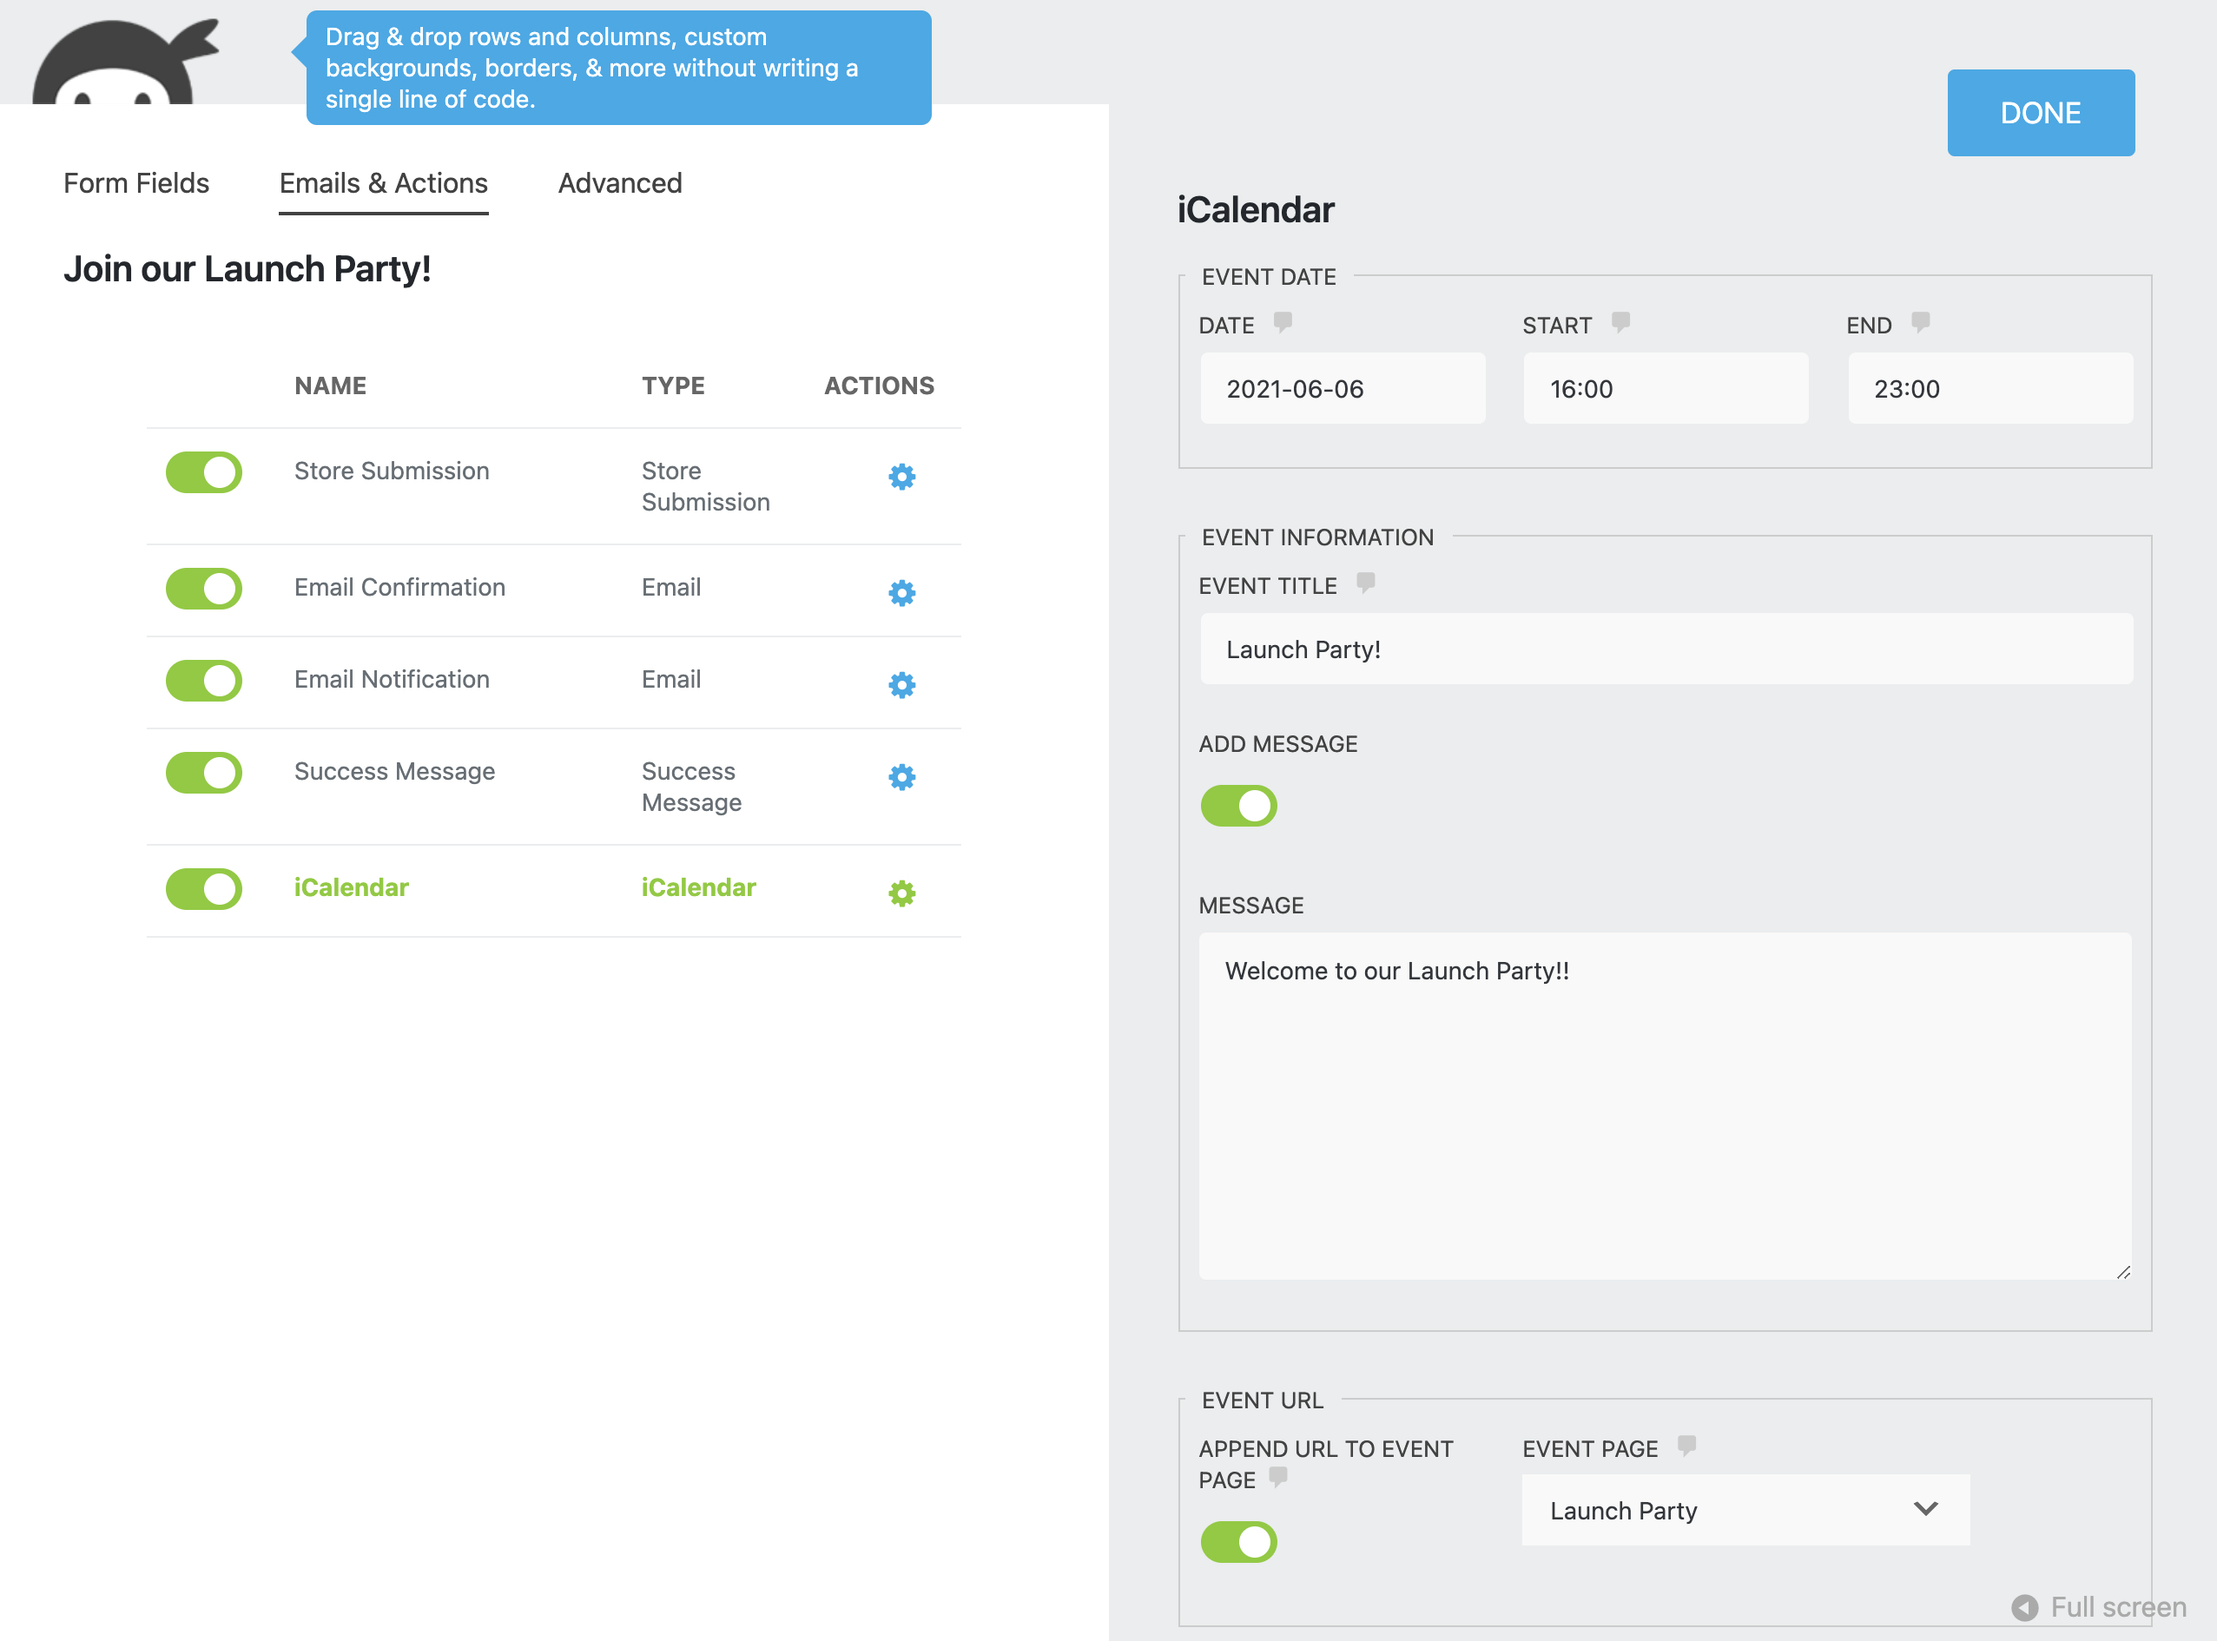
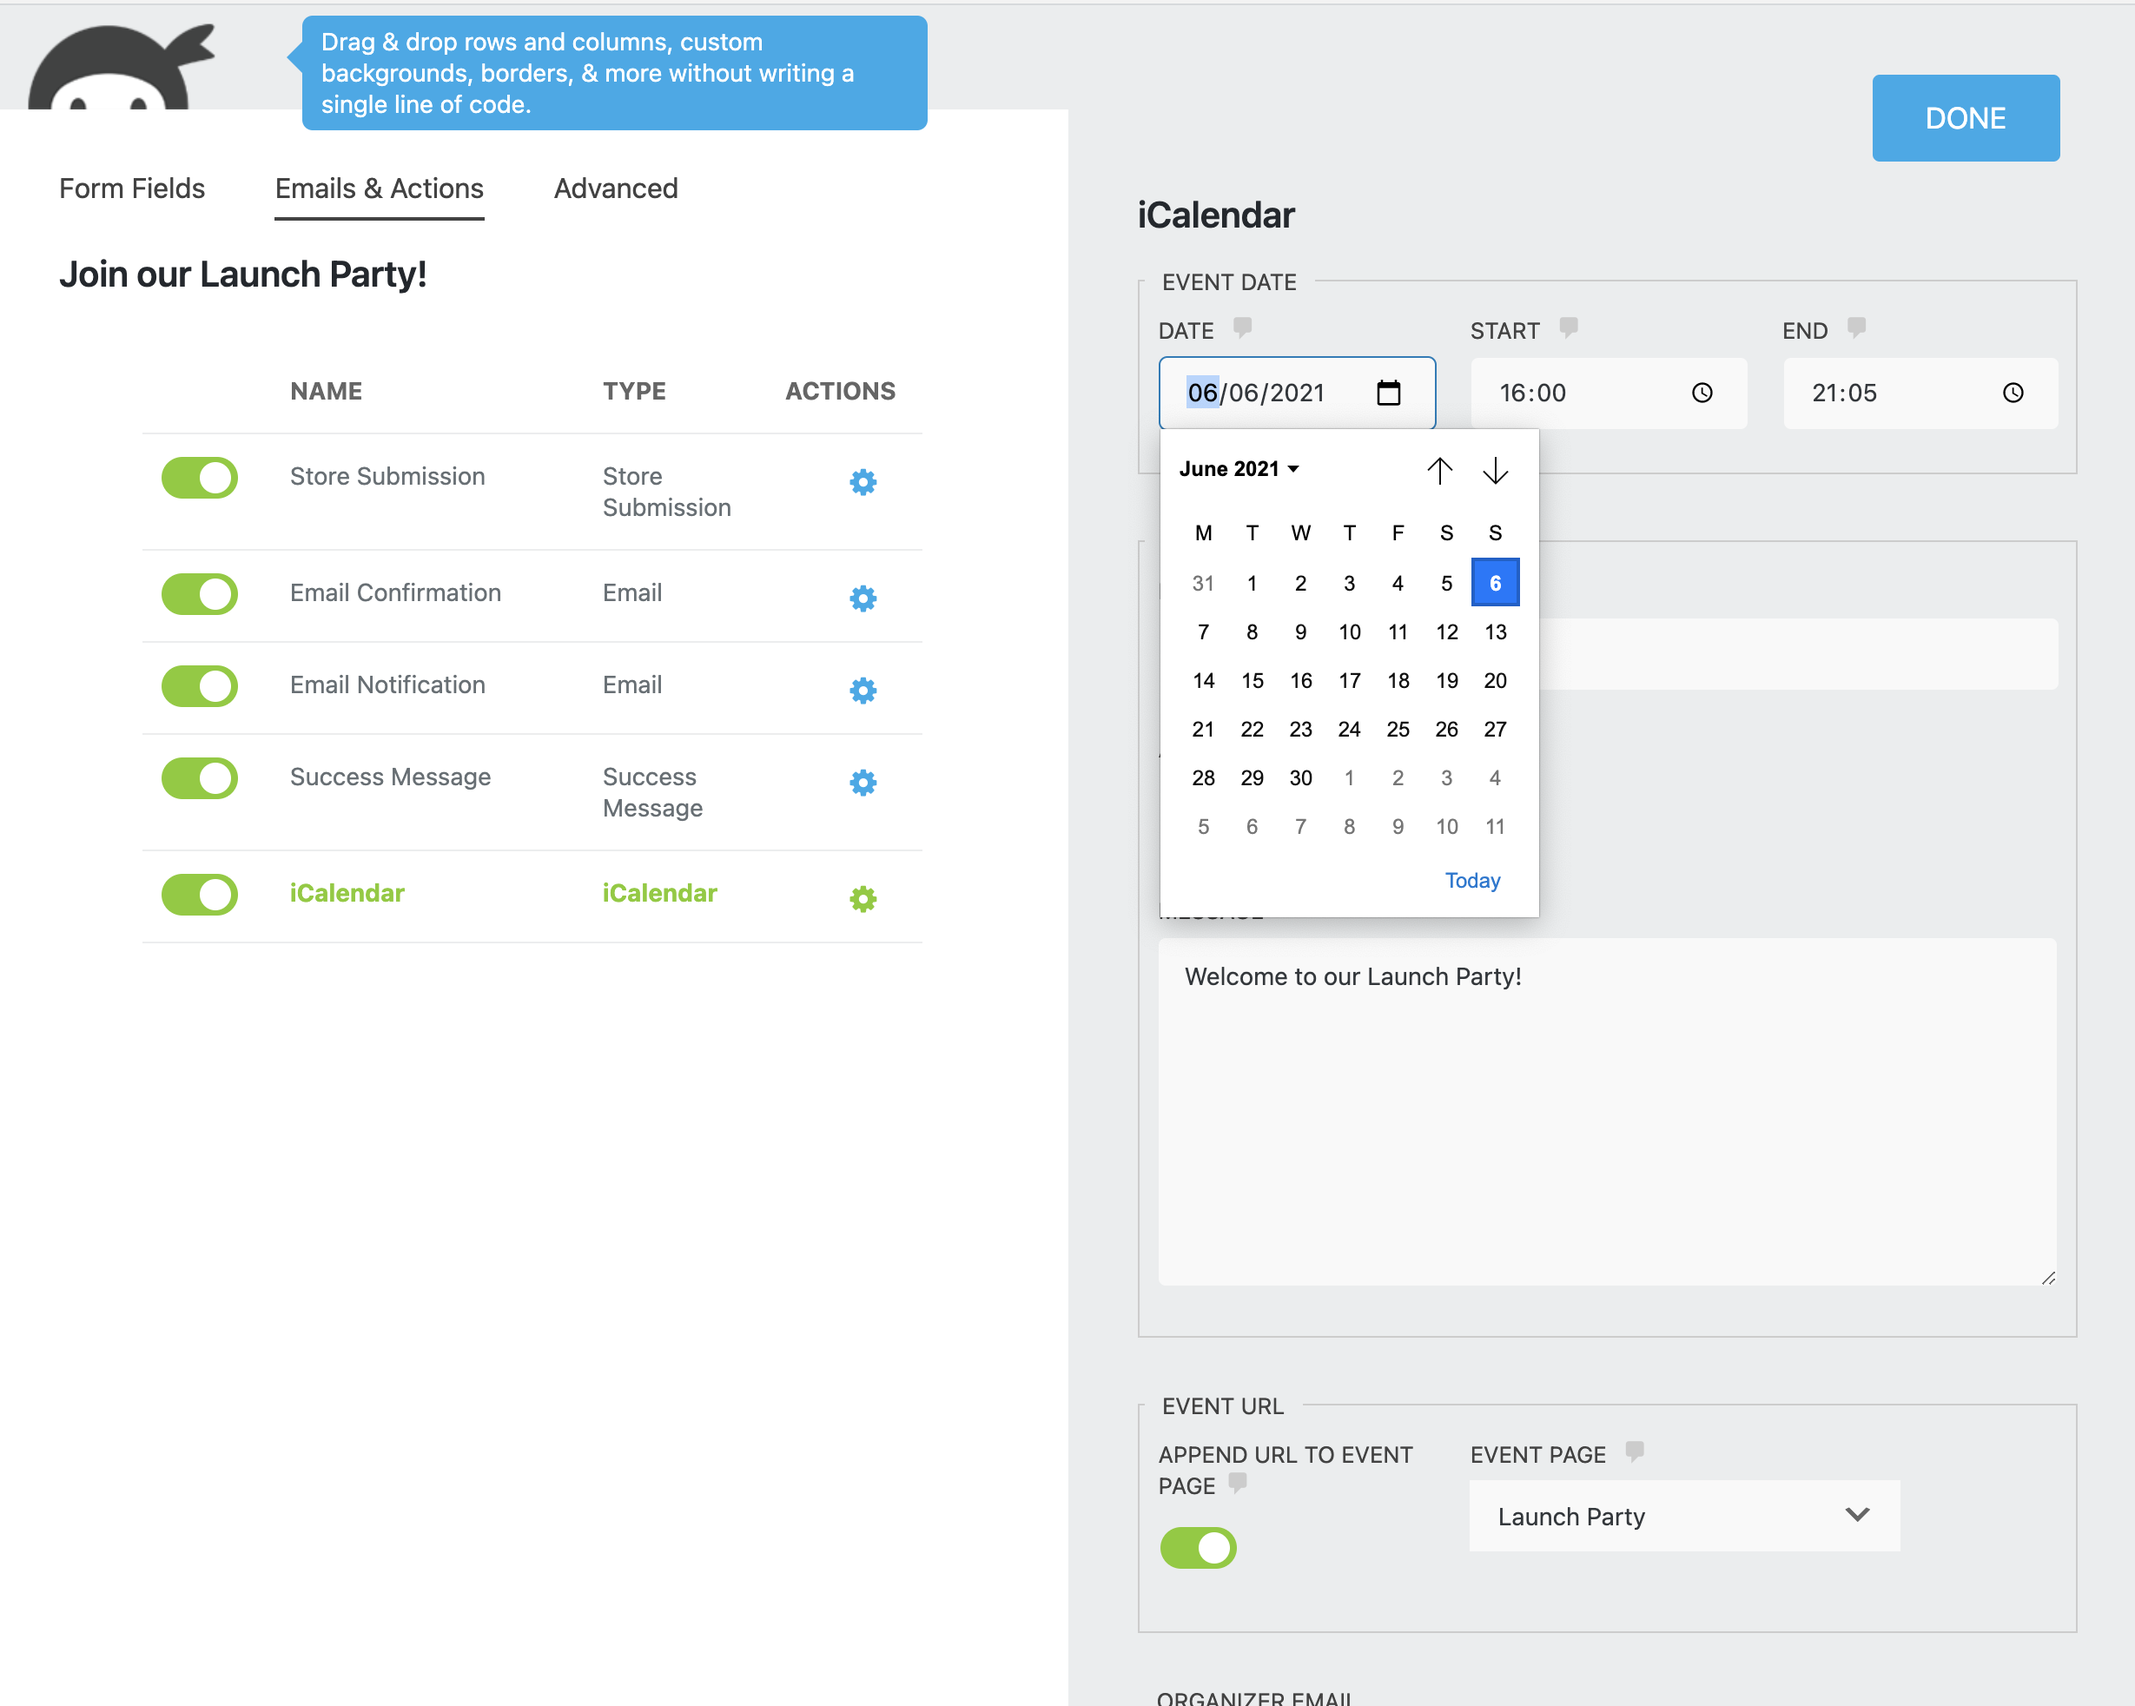
Add date and time picker

diff --git a/include/js/action.js b/include/js/action.js
@@ -2,76 +2,55 @@ document.addEventListener(
 	"DOMContentLoaded",
 	() => {
 		const nfRadio = Backbone.Radio;
-		const simpleEventDateChannel = nfRadio.channel(
-			"actionSetting-icalendar_date",
+
+		const iCalendarDateSettingChannel = nfRadio.channel(
+			"setting-icalendar_date",
 		);
-		const simpleEventTimeStartChannel = nfRadio.channel(
-			"actionSetting-icalendar_time_start",
+		const iCalendarTimeStartSettingChannel = nfRadio.channel(
+			"setting-icalendar_time_start",
 		);
-		const simpleEventTimeEndChannel = nfRadio.channel(
-			"actionSetting-icalendar_time_end",
+		const iCalendarTimeEndSettingChannel = nfRadio.channel(
+			"setting-icalendar_time_end",
 		);
 
-		const SimpleEventsSettings = class extends Marionette.Object {
+		const iCalendarsSettings = class extends Marionette.Object {
+
+			dateStyle = {
+				'background': '#f9f9f9',
+				'border': '0',
+				'marginTop': '7px',
+				'padding': '12px 15px',
+				'width': '100%',
+				'height': '41px',
+			};
 			/**
 			 * initialize()
 			 *
 			 */
 			initialize() {
-				this.listenTo(simpleEventDateChannel, "update:setting", this.eventDate);
-				this.listenTo(simpleEventTimeStartChannel, "update:setting", this.timeStart);
-				this.listenTo(simpleEventTimeEndChannel, "update:setting", this.timeEnd);
+				this.listenTo(iCalendarDateSettingChannel, "render:setting", this.renderDate);
+				this.listenTo(iCalendarTimeStartSettingChannel, "render:setting", this.renderTime);
+				this.listenTo(iCalendarTimeEndSettingChannel, "render:setting", this.renderTime);
 			}
 
-			eventDate(dataModel, settingModel) {
-				if ("undefined" === typeof settingModel) {
-					return;
-				}
-				const value = dataModel.get("icalendar_date").trim();
+			renderDate(settingModel, dataModel, view) {
+				const element = view.el.getElementsByClassName("setting")[0];
+				element.attributes["type"].value = "date";
+				element.attributes["pattern"] = "\d{4}-\d{2}-\d{2}";
 
-				if (value && !this.isValidDateFormat(value)) {
-					return settingModel.set("warning", icalnfi18n.errorInvalidDateFormat);
-				}
-
-				return settingModel.set("warning", false);
+				Object.assign(element.style, this.dateStyle );
 			}
 
-			timeStart(dataModel, settingModel) {
-				if ("undefined" === typeof settingModel) {
-					return;
-				}
+			renderTime(settingModel, dataModel, view) {
+				const element = view.el.getElementsByClassName("setting")[0];
+				element.attributes["type"].value = "time";
+				element.attributes["pattern"] = "\d{2}:\d{2}";
 
-				const value = dataModel.get("icalendar_time_start").trim();
-
-				if (value && !this.isValidTimeFormat(value)) {
-					return settingModel.set("warning", icalnfi18n.errorInvalidTimeFormat);
-				}
-
-				return settingModel.set("warning", false);
+				Object.assign(element.style, this.dateStyle );
 			}
 
-			timeEnd(dataModel, settingModel) {
-				if ("undefined" === typeof settingModel) {
-					return;
-				}
-
-				const value = dataModel.get("icalendar_time_end").trim();
-
-				if (value && !this.isValidTimeFormat(value)) {
-					return settingModel.set("warning", icalnfi18n.errorInvalidTimeFormat);
-				}
-
-				return settingModel.set("warning", false);
-			}
-
-			isValidDateFormat(eventDate) {
-				return /^\d{4}-\d{2}-\d{2}$/.test(eventDate);
-			}
-			isValidTimeFormat(eventTime) {
-				return /^\d{2}:\d{2}$/.test(eventTime);
-			}
 		};
 
-		new SimpleEventsSettings();
+		new iCalendarsSettings();
 	},
 );

diff --git a/plugin.php b/plugin.php
@@ -12,7 +12,7 @@
  * Plugin URI: https://github.com/soderlind/icalendar-ninja-forms
  * GitHub Plugin URI: https://github.com/soderlind/icalendar-ninja-forms
  * Description: Add an Event to your Ninja Forms.
- * Version:     1.0.0
+ * Version:     1.1.0
  * Author:      Per Søderlind
  * Author URI:  https://soderlind.no
  * Text Domain: icalendar-ninja-forms
@@ -28,7 +28,7 @@ if ( ! defined( 'ABSPATH' ) ) {
 	\wp_die();
 }
 const ICALENDAR_FILE    = __FILE__;
-const ICALENDAR_VERSION = '1.0.0';
+const ICALENDAR_VERSION = '1.1.0';
 
 require_once \plugin_dir_path( ICALENDAR_FILE ) . 'vendor/autoload.php';
 

diff --git a/README.md b/README.md
@@ -57,9 +57,13 @@ END:VCALENDAR
 
 ## Todo
 
-- Select event date and time using a calendar.
+- Validate settings
 
 ## Changelog
+
+### 1.1.0
+
+* Add date and time picker
 
 ### 1.0.0
 
